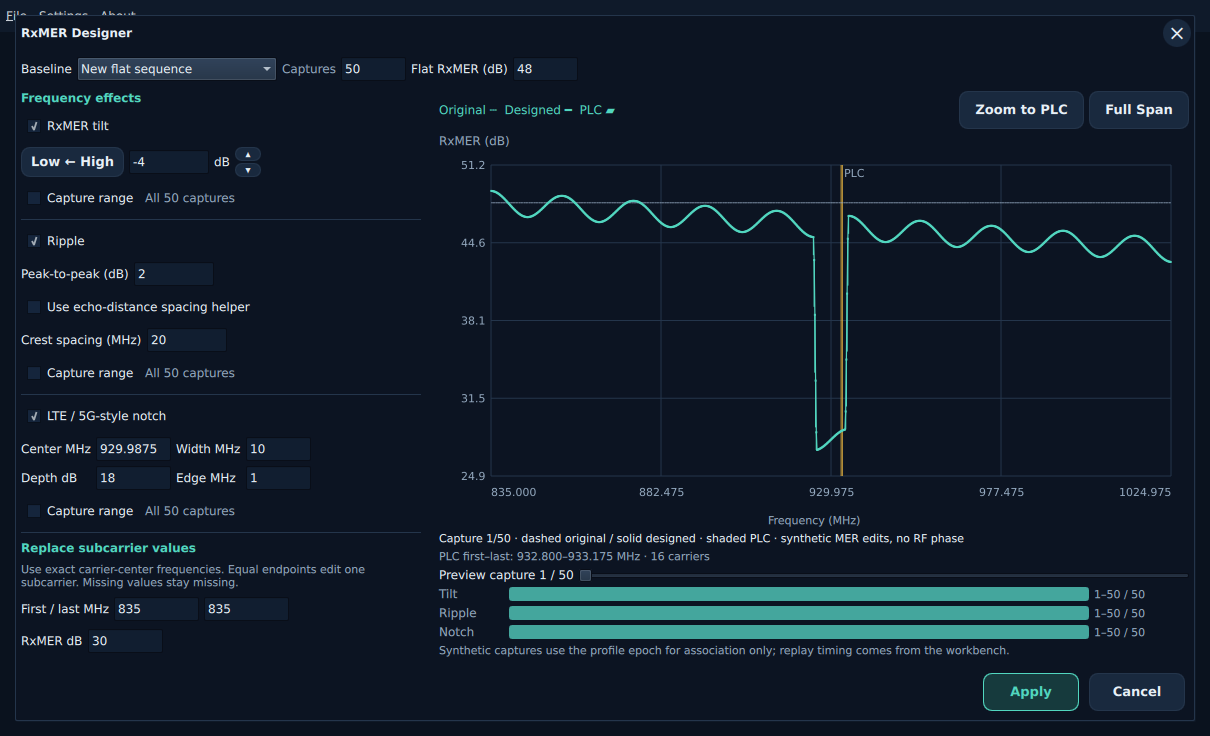
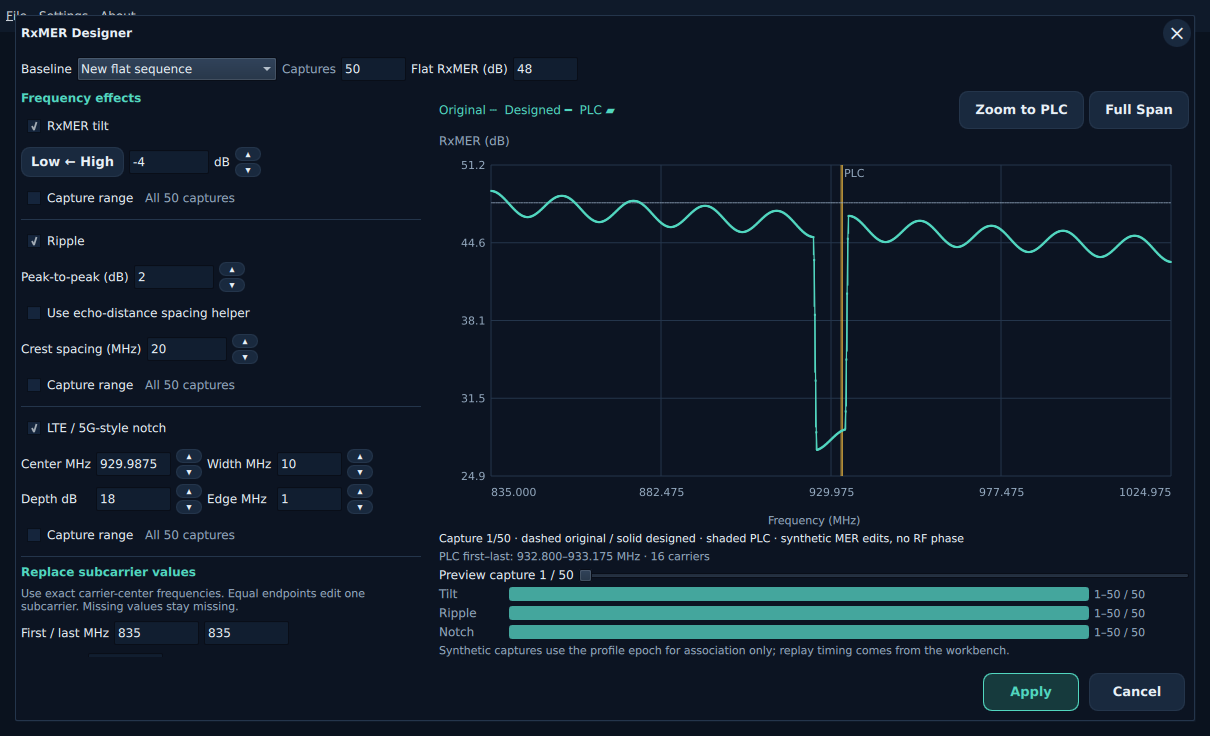
Feature: Add Ripple and notch adjustment arrows - Share compact stacked controls with tilt - Preserve text entry, keyboard and valid bounds - Refresh Designer docs and native screenshots - Tests: 80 adapter and 74 QML checks passed - Tests: Verify native dark and light layouts

Changed region(s): [[0.0, 0.3438, 0.3058, 0.875], [0.2752, 0.5938, 0.3058, 0.7188]]

diff --git a/apps/qt/qml/inputs/measurement_input/RxmerDesignerDialog.qml b/apps/qt/qml/inputs/measurement_input/RxmerDesignerDialog.qml
@@ -40,6 +40,63 @@ WorkbenchDialog {
     function stepTilt(delta) {
         if (canStepTilt(delta)) {tiltDb.text=String(Number(tiltDb.text)+delta);refresh()}
     }
+    // Mirrors the existing positive u32-Hz input domain for button guards only.
+    readonly property real maximumFrequencyHz: 4294967295
+    function canStepRipple(field,delta) {
+        const value=Number(field.text), next=value+delta
+        if (!ripple.checked || field.text.trim().length===0 || !Number.isFinite(value) || !Number.isFinite(next)) {return false}
+        if (field===rippleDb) {return value>=0 && value<=60 && next>=0 && next<=60}
+        return !distanceMode.checked && Math.round(value*1e6)>=1 && Math.round(value*1e6)<=maximumFrequencyHz
+            && Math.round(next*1e6)>=1 && Math.round(next*1e6)<=maximumFrequencyHz
+    }
+    function stepRipple(field,delta) {
+        if (canStepRipple(field,delta)) {field.text=String(Number(field.text)+delta);refresh()}
+    }
+    function canStepNotch(field,delta) {
+        const value=Number(field.text), next=value+delta
+        if (!notch.checked || field.text.trim().length===0 || !Number.isFinite(value) || !Number.isFinite(next)) {return false}
+        if (field===depth) {return value>=0 && value<=60 && next>=0 && next<=60}
+        const centerHz=Math.round(Number(center.text)*1e6), widthHz=Math.round(Number(bandwidth.text)*1e6), edgeHz=Math.round(Number(edge.text)*1e6)
+        function valid(centerValue,widthValue,edgeValue) {
+            return Number.isFinite(centerValue) && Number.isFinite(widthValue) && Number.isFinite(edgeValue)
+                && centerValue>=0 && centerValue<=maximumFrequencyHz && widthValue>=1 && widthValue<=maximumFrequencyHz
+                && edgeValue>=0 && edgeValue<=widthValue/2
+                && centerValue-widthValue/2>=information.first_hz && centerValue+widthValue/2<=information.last_hz
+        }
+        if (center.text.trim().length===0 || bandwidth.text.trim().length===0 || edge.text.trim().length===0 || !valid(centerHz,widthHz,edgeHz)) {return false}
+        return valid(field===center ? Math.round(next*1e6):centerHz,
+            field===bandwidth ? Math.round(next*1e6):widthHz,field===edge ? Math.round(next*1e6):edgeHz)
+    }
+    function stepNotch(field,delta) {
+        if (canStepNotch(field,delta)) {field.text=String(Number(field.text)+delta);refresh()}
+    }
+    component StepButtons: ColumnLayout {
+        id:stepper
+        required property var theme
+        required property string namePrefix
+        required property string increaseDescription
+        required property string decreaseDescription
+        property bool canIncrease: false
+        property bool canDecrease: false
+        signal increaseRequested()
+        signal decreaseRequested()
+        spacing:2
+        Layout.alignment:Qt.AlignVCenter
+        WorkbenchActionButton {
+            theme:stepper.theme;objectName:stepper.namePrefix+"Up";text:"▴";compact:true
+            implicitWidth:26;implicitHeight:14;padding:0;font.pixelSize:10
+            enabled:stepper.canIncrease;onClicked:stepper.increaseRequested()
+            Accessible.name:stepper.increaseDescription
+            ToolTip.visible:hovered || activeFocus;ToolTip.text:Accessible.name
+        }
+        WorkbenchActionButton {
+            theme:stepper.theme;objectName:stepper.namePrefix+"Down";text:"▾";compact:true
+            implicitWidth:26;implicitHeight:14;padding:0;font.pixelSize:10
+            enabled:stepper.canDecrease;onClicked:stepper.decreaseRequested()
+            Accessible.name:stepper.decreaseDescription
+            ToolTip.visible:hovered || activeFocus;ToolTip.text:Accessible.name
+        }
+    }
     function document() { return JSON.stringify({source:source.currentIndex === 0 ? "imported":"flat",capture_count:captureCount,baseline_db:Number(baseline.text),recipe:recipe()}) }
     function refresh() { if (!initializing && visible && !working) { viewport=JSON.parse(backend.designer_preview(document(),Math.round(preview.value),viewStart,viewCount));errorMessage=viewport.error || "";diagnostic=viewport.diagnostic || null } }
     function setWindow(start,count) {viewStart=start;viewCount=count;refresh()}
@@ -117,34 +174,57 @@ WorkbenchDialog {
                             Keys.onDownPressed:dialog.stepTilt(-1)
                         }
                         Label {text:"dB";color:theme.text}
-                        ColumnLayout {
-                            spacing:2
-                            Layout.alignment:Qt.AlignVCenter
-                            WorkbenchActionButton {
-                                theme:dialog.theme;objectName:"designerTiltUp";text:"▴";compact:true
-                                implicitWidth:26;implicitHeight:14;padding:0;font.pixelSize:10
-                                enabled:dialog.canStepTilt(1);onClicked:dialog.stepTilt(1)
-                                Accessible.name:"Increase RxMER tilt by 1 dB"
-                                ToolTip.visible:hovered || activeFocus;ToolTip.text:Accessible.name
-                            }
-                            WorkbenchActionButton {
-                                theme:dialog.theme;objectName:"designerTiltDown";text:"▾";compact:true
-                                implicitWidth:26;implicitHeight:14;padding:0;font.pixelSize:10
-                                enabled:dialog.canStepTilt(-1);onClicked:dialog.stepTilt(-1)
-                                Accessible.name:"Decrease RxMER tilt by 1 dB"
-                                ToolTip.visible:hovered || activeFocus;ToolTip.text:Accessible.name
-                            }
+                        StepButtons {
+                            theme:dialog.theme;namePrefix:"designerTilt"
+                            canIncrease:dialog.canStepTilt(1);canDecrease:dialog.canStepTilt(-1)
+                            increaseDescription:"Increase RxMER tilt by 1 dB"
+                            decreaseDescription:"Decrease RxMER tilt by 1 dB"
+                            onIncreaseRequested:dialog.stepTilt(1)
+                            onDecreaseRequested:dialog.stepTilt(-1)
                         }
 
                     }
                     RxmerDesignScope {id:tiltScope;objectName:"designerTiltScope";enabled:tilt.checked;opacity:enabled ? 1:0.5;theme:dialog.theme;captureCount:dialog.captureCount;onEdited:dialog.refresh()}
                     Rectangle {Layout.fillWidth:true; height:1;color:theme.line}
                     CheckBox {id:ripple;objectName:"designerRipple";text:"Ripple";onToggled:dialog.refresh()}
-                    RowLayout {Label {text:"Peak-to-peak (dB)";color:theme.text}
-TextField {id:rippleDb;text:"2";Layout.preferredWidth:80;onEditingFinished:dialog.refresh()} }
-                    CheckBox {id:distanceMode;text:"Use echo-distance spacing helper";onToggled:dialog.refresh();ToolTip.visible:hovered || activeFocus;ToolTip.text:"Assumes a round-trip cable cavity: crest spacing = c × velocity factor / (2 × distance). Depth is an independent MER edit; no RF phase is modeled."}
-                    RowLayout {visible:!distanceMode.checked;Label {text:"Crest spacing (MHz)";color:theme.text}
-TextField {id:spacing;text:"20";Layout.preferredWidth:80;onEditingFinished:dialog.refresh()} }
+                    RowLayout {
+                        Label {text:"Peak-to-peak (dB)";color:theme.text}
+                        TextField {
+                            id:rippleDb;objectName:"designerRippleDb";text:"2";Layout.preferredWidth:80
+                            Accessible.name:"Ripple peak-to-peak depth in dB"
+                            onEditingFinished:dialog.refresh()
+                            Keys.onUpPressed:dialog.stepRipple(rippleDb,1)
+                            Keys.onDownPressed:dialog.stepRipple(rippleDb,-1)
+                        }
+                        StepButtons {
+                            theme:dialog.theme;namePrefix:"designerRippleDepth"
+                            canIncrease:dialog.canStepRipple(rippleDb,1);canDecrease:dialog.canStepRipple(rippleDb,-1)
+                            increaseDescription:"Increase ripple peak-to-peak by 1 dB"
+                            decreaseDescription:"Decrease ripple peak-to-peak by 1 dB"
+                            onIncreaseRequested:dialog.stepRipple(rippleDb,1)
+                            onDecreaseRequested:dialog.stepRipple(rippleDb,-1)
+                        }
+                    }
+                    CheckBox {id:distanceMode;objectName:"designerRippleDistanceMode";text:"Use echo-distance spacing helper";onToggled:dialog.refresh();ToolTip.visible:hovered || activeFocus;ToolTip.text:"Assumes a round-trip cable cavity: crest spacing = c × velocity factor / (2 × distance). Depth is an independent MER edit; no RF phase is modeled."}
+                    RowLayout {
+                        visible:!distanceMode.checked
+                        Label {text:"Crest spacing (MHz)";color:theme.text}
+                        TextField {
+                            id:spacing;objectName:"designerRippleSpacing";text:"20";Layout.preferredWidth:80
+                            Accessible.name:"Ripple crest spacing in MHz"
+                            onEditingFinished:dialog.refresh()
+                            Keys.onUpPressed:dialog.stepRipple(spacing,1)
+                            Keys.onDownPressed:dialog.stepRipple(spacing,-1)
+                        }
+                        StepButtons {
+                            theme:dialog.theme;namePrefix:"designerRippleSpacing"
+                            canIncrease:dialog.canStepRipple(spacing,1);canDecrease:dialog.canStepRipple(spacing,-1)
+                            increaseDescription:"Increase ripple crest spacing by 1 MHz"
+                            decreaseDescription:"Decrease ripple crest spacing by 1 MHz"
+                            onIncreaseRequested:dialog.stepRipple(spacing,1)
+                            onDecreaseRequested:dialog.stepRipple(spacing,-1)
+                        }
+                    }
                     RowLayout {visible:distanceMode.checked;Label {text:"Distance (m)";color:theme.text}
 TextField {id:distance;text:"6.37";Layout.preferredWidth:70;onEditingFinished:dialog.refresh()}
 Label {text:"VF";color:theme.text}
@@ -152,15 +232,71 @@ TextField {id:vf;text:"0.85";Layout.preferredWidth:65;onEditingFinished:dialog.r
                     RxmerDesignScope {id:rippleScope;theme:dialog.theme;captureCount:dialog.captureCount;onEdited:dialog.refresh()}
                     Rectangle {Layout.fillWidth:true;height:1;color:theme.line}
                     CheckBox {id:notch;objectName:"designerNotch";text:"LTE / 5G-style notch";onToggled:dialog.refresh();ToolTip.visible:hovered || activeFocus;ToolTip.text:"Synthetic reduction in MER over a frequency band, not an LTE or 5G waveform simulation."}
-                    GridLayout {columns:4
+                    GridLayout {columns:6
                         Label {text:"Center MHz";color:theme.text}
-TextField {id:center;Layout.preferredWidth:75;onEditingFinished:dialog.refresh()}
+                        TextField {
+                            id:center;objectName:"designerNotchCenter";text:"";Layout.preferredWidth:75
+                            Accessible.name:"Notch center in MHz"
+                            onEditingFinished:dialog.refresh()
+                            Keys.onUpPressed:dialog.stepNotch(center,1)
+                            Keys.onDownPressed:dialog.stepNotch(center,-1)
+                        }
+                        StepButtons {
+                            theme:dialog.theme;namePrefix:"designerNotchCenter"
+                            canIncrease:dialog.canStepNotch(center,1);canDecrease:dialog.canStepNotch(center,-1)
+                            increaseDescription:"Increase notch center by 1 MHz"
+                            decreaseDescription:"Decrease notch center by 1 MHz"
+                            onIncreaseRequested:dialog.stepNotch(center,1)
+                            onDecreaseRequested:dialog.stepNotch(center,-1)
+                        }
                         Label {text:"Width MHz";color:theme.text}
-TextField {id:bandwidth;text:"10";Layout.preferredWidth:65;onEditingFinished:dialog.refresh()}
+                        TextField {
+                            id:bandwidth;objectName:"designerNotchWidth";text:"10";Layout.preferredWidth:65
+                            Accessible.name:"Notch width in MHz"
+                            onEditingFinished:dialog.refresh()
+                            Keys.onUpPressed:dialog.stepNotch(bandwidth,1)
+                            Keys.onDownPressed:dialog.stepNotch(bandwidth,-1)
+                        }
+                        StepButtons {
+                            theme:dialog.theme;namePrefix:"designerNotchWidth"
+                            canIncrease:dialog.canStepNotch(bandwidth,1);canDecrease:dialog.canStepNotch(bandwidth,-1)
+                            increaseDescription:"Increase notch width by 1 MHz"
+                            decreaseDescription:"Decrease notch width by 1 MHz"
+                            onIncreaseRequested:dialog.stepNotch(bandwidth,1)
+                            onDecreaseRequested:dialog.stepNotch(bandwidth,-1)
+                        }
                         Label {text:"Depth dB";color:theme.text}
-TextField {id:depth;text:"18";Layout.preferredWidth:75;onEditingFinished:dialog.refresh()}
+                        TextField {
+                            id:depth;objectName:"designerNotchDepth";text:"18";Layout.preferredWidth:75
+                            Accessible.name:"Notch depth in dB"
+                            onEditingFinished:dialog.refresh()
+                            Keys.onUpPressed:dialog.stepNotch(depth,1)
+                            Keys.onDownPressed:dialog.stepNotch(depth,-1)
+                        }
+                        StepButtons {
+                            theme:dialog.theme;namePrefix:"designerNotchDepth"
+                            canIncrease:dialog.canStepNotch(depth,1);canDecrease:dialog.canStepNotch(depth,-1)
+                            increaseDescription:"Increase notch depth by 1 dB"
+                            decreaseDescription:"Decrease notch depth by 1 dB"
+                            onIncreaseRequested:dialog.stepNotch(depth,1)
+                            onDecreaseRequested:dialog.stepNotch(depth,-1)
+                        }
                         Label {text:"Edge MHz";color:theme.text}
-TextField {id:edge;text:"1";Layout.preferredWidth:65;onEditingFinished:dialog.refresh()}
+                        TextField {
+                            id:edge;objectName:"designerNotchEdge";text:"1";Layout.preferredWidth:65
+                            Accessible.name:"Notch edge in MHz"
+                            onEditingFinished:dialog.refresh()
+                            Keys.onUpPressed:dialog.stepNotch(edge,1)
+                            Keys.onDownPressed:dialog.stepNotch(edge,-1)
+                        }
+                        StepButtons {
+                            theme:dialog.theme;namePrefix:"designerNotchEdge"
+                            canIncrease:dialog.canStepNotch(edge,1);canDecrease:dialog.canStepNotch(edge,-1)
+                            increaseDescription:"Increase notch edge by 1 MHz"
+                            decreaseDescription:"Decrease notch edge by 1 MHz"
+                            onIncreaseRequested:dialog.stepNotch(edge,1)
+                            onDecreaseRequested:dialog.stepNotch(edge,-1)
+                        }
                     }
                     RxmerDesignScope {id:notchScope;objectName:"designerNotchScope";theme:dialog.theme;captureCount:dialog.captureCount;onEdited:dialog.refresh()}
                     Rectangle {Layout.fillWidth:true;height:1;color:theme.line}

diff --git a/apps/qt/tests/tst_rxmer_designer.qml b/apps/qt/tests/tst_rxmer_designer.qml
@@ -85,6 +85,64 @@ Pane {
             field.text="invalid";verify(!up.enabled);verify(!down.enabled)
             field.text="-7";field.forceActiveFocus();keyClick(Qt.Key_Tab);compare(backend.lastRequest.recipe.tilt.tilt_db,-7)
         }
+        function test_ripple_steps_preserve_fractional_entry_and_limits(){
+            dialog.open();tryCompare(dialog,"visible",true)
+            const field=findChild(dialog,"designerRippleDb"), spacing=findChild(dialog,"designerRippleSpacing")
+            const up=findChild(dialog,"designerRippleDepthUp"), down=findChild(dialog,"designerRippleDepthDown")
+            verify(!up.enabled);dialog.stepRipple(field,1);compare(field.text,"2")
+            findChild(dialog,"designerRipple").checked=true
+            mouseClick(up);compare(backend.lastRequest.recipe.ripple.peak_to_peak_db,3)
+            mouseClick(down);compare(field.text,"2")
+            field.text="2.5";field.forceActiveFocus();keyClick(Qt.Key_Up);compare(field.text,"3.5")
+            keyClick(Qt.Key_Down);compare(field.text,"2.5")
+            field.text="60";verify(!up.enabled);field.text="0";verify(!down.enabled)
+            field.text="invalid";verify(!up.enabled);verify(!down.enabled)
+            field.text="";verify(!up.enabled);field.text="2"
+            const spacingUp=findChild(dialog,"designerRippleSpacingUp"), spacingDown=findChild(dialog,"designerRippleSpacingDown")
+            mouseClick(findChild(dialog,"designerZoomPlc"))
+            spacing.text="20.5";mouseClick(spacingUp);compare(backend.lastRequest.recipe.ripple.spacing.spacing_hz,21500000)
+            mouseClick(spacingDown);compare(spacing.text,"20.5")
+            spacing.text="1";verify(!spacingDown.enabled)
+            spacing.text="4294";verify(!spacingUp.enabled)
+            spacing.text="0";verify(!spacingUp.enabled)
+            spacing.text="20";findChild(dialog,"designerRippleDistanceMode").checked=true
+            verify(!spacingUp.enabled);dialog.stepRipple(spacing,1);compare(spacing.text,"20")
+            compare(dialog.viewStart,4000);compare(dialog.viewCount,80)
+        }
+        function test_notch_steps_keep_band_edge_bounds_scope_and_zoom(){
+            dialog.open();tryCompare(dialog,"visible",true)
+            const center=findChild(dialog,"designerNotchCenter"), width=findChild(dialog,"designerNotchWidth")
+            const depth=findChild(dialog,"designerNotchDepth"), edge=findChild(dialog,"designerNotchEdge")
+            verify(!findChild(dialog,"designerNotchCenterUp").enabled)
+            dialog.stepNotch(center,1);compare(center.text,"733.5")
+            findChild(dialog,"designerNotch").checked=true
+            const scope=findChild(dialog,"designerNotchScope");scope.restore({mode:"range",first:10,last:20})
+            mouseClick(findChild(dialog,"designerZoomPlc"))
+            const fields=[center,width,depth,edge], names=["Center","Width","Depth","Edge"]
+            for(let index=0;index<fields.length;index++){
+                const field=fields[index], value=Number(field.text)
+                const up=findChild(dialog,"designerNotch"+names[index]+"Up"), down=findChild(dialog,"designerNotch"+names[index]+"Down")
+                mouseClick(up);compare(Number(field.text),value+1)
+                mouseClick(down);compare(Number(field.text),value)
+                field.forceActiveFocus();keyClick(Qt.Key_Up);compare(Number(field.text),value+1)
+                keyClick(Qt.Key_Down);compare(Number(field.text),value)
+                field.text="invalid";verify(!up.enabled);verify(!down.enabled)
+                field.text="";verify(!up.enabled);verify(!down.enabled);field.text=String(value)
+            }
+            compare(backend.lastRequest.recipe.notch.scope.first,10)
+            compare(dialog.viewStart,4000);compare(dialog.viewCount,80)
+            center.text="645";verify(!findChild(dialog,"designerNotchCenterDown").enabled)
+            verify(!findChild(dialog,"designerNotchWidthUp").enabled)
+            center.text="822";verify(!findChild(dialog,"designerNotchCenterUp").enabled)
+            center.text="733.5";edge.text="5";verify(!findChild(dialog,"designerNotchEdgeUp").enabled)
+            verify(!findChild(dialog,"designerNotchWidthDown").enabled)
+            edge.text="0";verify(!findChild(dialog,"designerNotchEdgeDown").enabled)
+            depth.text="60";verify(!findChild(dialog,"designerNotchDepthUp").enabled)
+            depth.text="0";verify(!findChild(dialog,"designerNotchDepthDown").enabled)
+            depth.text="2.5";dialog.stepNotch(depth,1);compare(backend.lastRequest.recipe.notch.depth_db,3.5)
+            findChild(dialog,"designerNotch").checked=false
+            dialog.stepNotch(depth,1);compare(depth.text,"3.5")
+        }
         function test_zoom_plc_navigation_and_capture_changes_keep_window(){
             dialog.open();tryCompare(dialog,"visible",true)
             mouseClick(findChild(dialog,"designerZoomPlc"))

diff --git a/docs/development/features/rxmer-designer/design.md b/docs/development/features/rxmer-designer/design.md
@@ -128,3 +128,35 @@ confirmed readable small triangles; mouse clicks changed -4 to -3 and back
 to -4 dB. Refreshed the normal/PLC-zoom dark guide captures. Review used owned
 application instances and isolated preferences; the existing user app was
 preserved. No core signal-processing or recipe behavior changed.
+
+## RXMER-DESIGN-09: ripple depth and spacing steppers
+
+Reuse the compact stacked triangle controls for ripple peak-to-peak depth and
+explicit crest spacing. Steps are 1 dB and 1 MHz respectively; retain fractional
+text entry, Up/Down keys, capture scope and zoom. Extract the existing visual
+stack as a local inline component so tilt and ripple share dimensions, theme,
+focus and tooltip behavior. New step guards require enabled Ripple and valid
+current/next values within the existing Rust recipe domain. The spacing control
+is inactive in echo-distance mode. Rust remains the admission authority. Validation is recorded below alongside
+RXMER-DESIGN-10.
+
+## RXMER-DESIGN-10: notch field steppers
+
+Apply the same shared stack to center, width, depth and edge. Frequency steps
+are 1 MHz; depth steps are 1 dB. Keep fractional editing and keyboard stepping.
+Guard the proposed notch against existing Rust bounds: its band stays within
+the capture grid, edge is at most half the width, and depth is 0–60 dB. Zero
+edge is allowed. Disabled effects retain their drafts. No numerical model or
+recipe schema changes. Cover bounds, scope and zoom in QML and inspect native
+dark/light rendering alongside RXMER-DESIGN-09.
+
+Validation for RXMER-DESIGN-09/10: Qt formatting, Clippy, native build, all
+80 adapter tests (63.90s) and all 74 QML checks (19.383s) passed. The focused
+Designer suite passed 11 checks (1.140s), covering fractional and keyboard
+steps, disabled guards, notch band/edge limits, capture scope and zoom. Native
+VM dark/light inspection confirmed all stacks fit within the existing left
+column. Native mouse stepping exercised ripple and all four notch fields;
+normal and PLC-zoom dark guide images were refreshed. Isolated review app
+instances were closed without applying drafts or changing user preferences.
+Qt owns these edit conveniences; Rust recipe admission and numerical models
+are unchanged, so no architecture ownership change was needed.

diff --git a/docs/development/checklist.md b/docs/development/checklist.md
@@ -1229,6 +1229,17 @@ validation are complete; the user guide includes the current dark capture.
   native dark/light verification and refreshed guide screenshots.
   [Design](features/rxmer-designer/design.md#rxmer-design-08-compact-stacked-tilt-arrows).
 
+- [x] **RXMER-DESIGN-09** Add shared stacked arrows for ripple depth
+  (1 dB) and crest spacing (1 MHz), preserving fractional editing, keyboard,
+  bounds and zoom. All 80 adapter and 74 QML checks pass; native dark/light
+  verified and guide screenshots refreshed.
+  [Design](features/rxmer-designer/design.md#rxmer-design-09-ripple-depth-and-spacing-steppers).
+
+- [x] **RXMER-DESIGN-10** Add stacked arrows to notch center, width,
+  depth and edge, guarding capture-band and edge/width limits. Preserve
+  editable values, keyboard and capture scope; same validation as above.
+  [Design](features/rxmer-designer/design.md#rxmer-design-10-notch-field-steppers).
+
 ### Windows desktop UI delivery
 
 - [x] **UI-MSI-01** Implement Windows x64 desktop-only MSI staging and CI,

diff --git a/docs/user/measurement-inputs/rxmer-designer.md b/docs/user/measurement-inputs/rxmer-designer.md
@@ -24,6 +24,15 @@ edge; negative tilt lowers it. The arrow points toward the higher MER edge.
 The direction button preserves magnitude, capture scope and zoom,
 and is disabled for zero or invalid text.
 
+Ripple and notch fields use the same small stacked **▴ / ▾** controls.
+Ripple peak-to-peak and notch depth step by **1 dB**; crest spacing and notch
+center, width and edge step by **1 MHz**. Direct fractional entry and the
+field’s Up/Down keys remain available. Arrows are disabled until the effect is
+enabled, and cannot step outside valid bounds. Crest-spacing arrows are inactive
+when the echo-distance helper is selected. A notch must remain inside the
+capture frequency range, with edge width no greater than half its total width.
+Changing a field preserves the capture range and chart zoom.
+
 The preview overlays the original dashed curve and
 the designed solid curve on the same RxMER axis. A single shaded **PLC** region
 runs from the first to the last PLC carrier in the accepted modulation profile.
